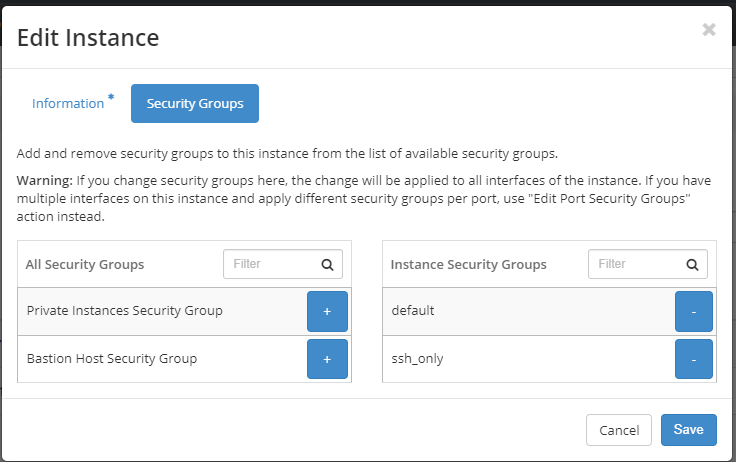
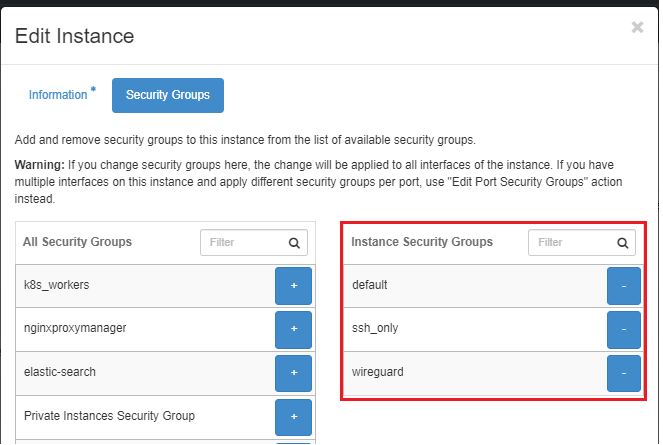
added security groups required for WireGuard and OpenVPN VMs

diff --git a/docs/openstack/create-and-connect-to-the-VM/wireguard/index.md b/docs/openstack/create-and-connect-to-the-VM/wireguard/index.md
@@ -17,6 +17,12 @@ Ubuntu OS image, named "**wireguard_server**" on OpenStack, with
 
 Also, attach a Floating IP to this instance so you can ssh into it from outside.
 
+Create a new Security Group that is listening on **UDP port 51820** as shown below:
+
+![WireGuard Security Rule](images/wireguard_security_rule.png)
+
+All Security Groups attached to the WireGuard Server looks like as shown below:
+
 ![Security Groups](images/security_groups.png)
 
 Finally, you'll want to configure the setting for the remote instances in your

diff --git a/docs/openstack/create-and-connect-to-the-VM/openvpn/index.md b/docs/openstack/create-and-connect-to-the-VM/openvpn/index.md
@@ -21,6 +21,12 @@ and "**ssh_only**" Security Groups attached to it.
 
 Also, attach a Floating IP to this instance so you can ssh into it from outside.
 
+Create a new Security Group that is listening on **UDP port 1194** as shown below:
+
+![OpenVPN Security Rule](images/openvpn_security_rule.png)
+
+All Security Groups attached to the OpenVPN Server looks like as shown below:
+
 ![Security Groups](images/security_groups.png)
 
 Finally, you'll want to configure the setting for the remote instances in your
